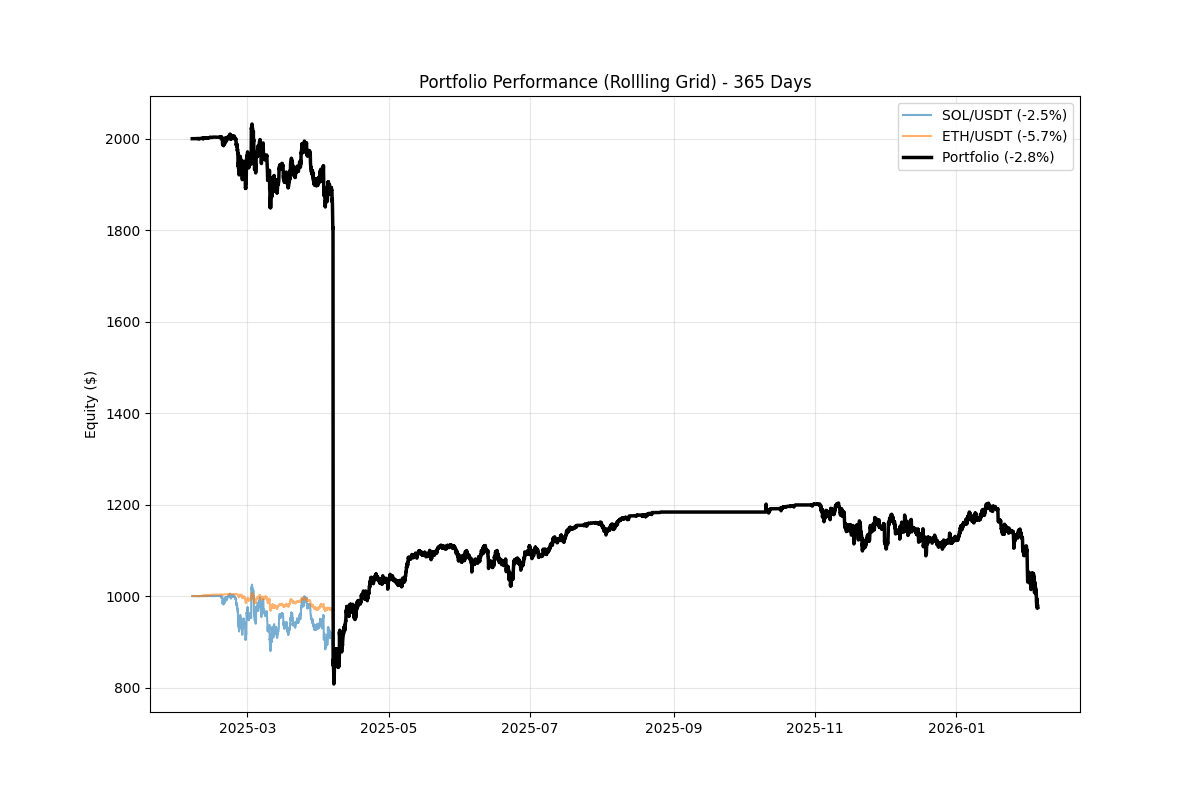
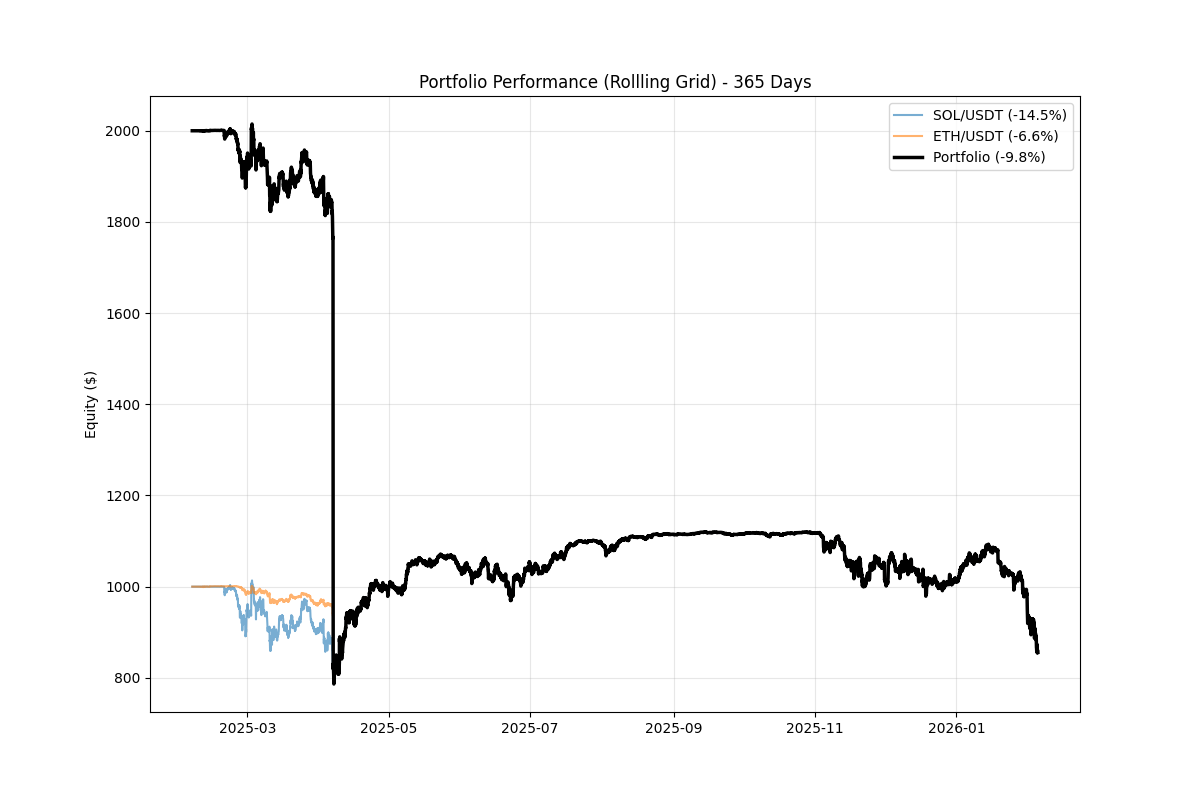
feat: Add trend filter to backtesting and update codebase review to reflect resolved issues and new findings.

diff --git a/backtest/simulator.py b/backtest/simulator.py
@@ -58,7 +58,8 @@ class GridSimulator:
         initial_capital: float = 1000.0,
         stop_loss: Optional[float] = None,
         fees_percent: float = 0.1,  # 0.1% per trade (Binance default)
-        rolling: bool = False  # Enable rolling/infinity grids
+        rolling: bool = False,  # Enable rolling/infinity grids
+        trend_filter_period: Optional[int] = None  # SMA period for trend filter (e.g., 50)
     ):
         """
         Initialize grid simulator.
@@ -88,6 +89,10 @@ class GridSimulator:
         
         mode_str = "ROLLING" if rolling else "FIXED"
         logger.info(f"Grid ({mode_str}): {grid_levels} levels from {lower_limit} to {upper_limit}, step={self.grid_step:.4f}")
+        
+        self.trend_filter_period = trend_filter_period
+        if trend_filter_period:
+            logger.info(f"Trend filter enabled: SMA-{trend_filter_period}")
     
     def run(self, ohlcv_df: pd.DataFrame) -> BacktestResult:
         """
@@ -130,6 +135,11 @@ class GridSimulator:
         
         logger.info(f"Initialized {len(buy_levels)} buy levels, {len(sell_levels)} sell levels")
         
+        # Calculate trend filter (SMA)
+        sma = None
+        if self.trend_filter_period:
+            sma = ohlcv_df['close'].rolling(window=self.trend_filter_period).mean()
+        
         # Simulate price movement
         for timestamp, row in ohlcv_df.iterrows():
             high = row['high']
@@ -169,6 +179,13 @@ class GridSimulator:
             
             for phase in phases:
                 if phase == 'buy':
+                    # Trend Filter: Skip buying if price is below SMA (downtrend)
+                    if sma is not None:
+                        current_sma = sma.get(timestamp)
+                        if current_sma is not None and not pd.isna(current_sma):
+                            if close < current_sma:
+                                continue  # Skip buying in downtrend
+                    
                     # Check for buy fills (price went down through grid levels)
                     filled_buys = []
                     for level in list(buy_levels):

diff --git a/backtest/portfolio_runner.py b/backtest/portfolio_runner.py
@@ -48,7 +48,8 @@ def load_all_strategies() -> Dict[str, dict]:
 def run_portfolio_backtest(
     days: int,
     initial_capital_per_bot: float,
-    fees_percent: float = 0.1
+    fees_percent: float = 0.1,
+    trend_filter_period: int = None
 ):
     """Run backtest for all enabled strategies."""
     strategies = load_all_strategies()
@@ -80,7 +81,8 @@ def run_portfolio_backtest(
                 initial_capital=initial_capital_per_bot,
                 stop_loss=config.get('stop_loss'),
                 fees_percent=fees_percent,
-                rolling=config.get('rolling_grids', False)
+                rolling=config.get('rolling_grids', False),
+                trend_filter_period=trend_filter_period
             )
             
             # Run
@@ -185,7 +187,8 @@ if __name__ == '__main__':
     parser = argparse.ArgumentParser(description='Portfolio Backtester')
     parser.add_argument('--days', '-d', type=int, default=30, help='Days of history')
     parser.add_argument('--capital', '-c', type=float, default=1000.0, help='Capital per bot')
+    parser.add_argument('--trend-filter', '-t', type=int, default=None, help='SMA period for trend filter (e.g., 50)')
     
     args = parser.parse_args()
     
-    run_portfolio_backtest(args.days, args.capital)
+    run_portfolio_backtest(args.days, args.capital, trend_filter_period=args.trend_filter)

diff --git a/review_report_2026-02-05.md b/review_report_2026-02-05.md
@@ -1,93 +1,71 @@
-# Codebase Review Report (2026-02-05)
+# Codebase Review Report (Updated 2026-02-05)
 
-## Updates Read Before Writing This Report
-1. Reviewed recent history through `7f6e385` (`git log --oneline --decorate -n 12`).
-2. Reviewed current working-tree changes (`git status --short`, `git diff --name-only`).
-3. Reviewed the only local diff in `config/strategies.json` (SOL/ETH grid parameter updates).
-4. Re-ran test baseline: `venv/bin/python -m pytest -q` -> `40 passed in 2.46s`.
+## Scope
+1. Re-reviewed current `HEAD` after latest commits (`46a1f92` and predecessors).
+2. Focused on behavior changes in `workers/`, `manager/`, `shared/`, and `backtest/`.
+3. Validation run: `venv/bin/python -m pytest -q` -> `40 passed in 2.37s`.
 
-## Verification Summary
-1. Confirmed findings: 13
-2. Partially confirmed findings (refined framing): 5
-3. Retracted findings: 0
+## Findings (Current State)
+1. `High` Global STOP can be silently dropped after a transient publish failure.
+Evidence: `manager/orchestrator.py:107`, `manager/orchestrator.py:134`, `manager/orchestrator.py:137`
+Detail: `stop_broadcast_sent` is set after attempting STOP broadcast, but `broadcast_command` does not return success/failure to gate that flag. A single failed publish can suppress further STOP attempts while breach persists.
 
-## Confirmed Findings
-1. `Critical` Infinite blocking risk in command stream read.
-Evidence: `workers/grid_bot.py:490`, `shared/messaging.py:127`
-Detail: `xreadgroup(..., block=0)` is treated as non-blocking in comments, but `BLOCK 0` blocks indefinitely.
+2. `High` Worker unregistration path is mostly unreachable from worker shutdown paths.
+Evidence: `manager/orchestrator.py:42`, `workers/grid_bot.py:560`, `workers/grid_bot.py:549`
+Detail: manager only unregisters on terminal status updates, but worker STOP/STOP_LOSS paths do not publish terminal status to the manager status channel. This can leave stale `active_bots` and allocations.
 
-2. `High` Stale-data watchdog ineffective in live loop ordering.
-Evidence: `workers/grid_bot.py:457`, `workers/grid_bot.py:462`
-Detail: `last_price_update` is set immediately after fetch, then stale check runs, so age is near-zero on successful fetches.
+3. `High` Profit factor regression for break-even strategies (`0/0 -> inf`).
+Evidence: `backtest/metrics.py:69`, `backtest/metrics.py:70`, `backtest/metrics.py:71`
+Detail: when all sell-trade PnL values are zero, winners and losers are both empty and `profit_factor` becomes `inf`, which is mathematically misleading for break-even performance.
 
-3. `High` API key lock renewal does not verify owner.
-Evidence: `workers/grid_bot.py:133`
-Detail: lock TTL is extended without checking key value still matches this worker ID.
+4. `Medium` Cache validation can accept severely undersampled history.
+Evidence: `backtest/data_fetcher.py:84`, `backtest/data_fetcher.py:85`
+Detail: cache completeness is validated only by time span (`last - first`) and not by candle density/count, so sparse data can be accepted as full coverage.
 
-4. `High` Worker lifecycle leak can exhaust concurrency permanently.
-Evidence: `manager/risk_engine.py:17`
-Detail: active workers are added but never removed/expired.
+5. `Medium` Terminal worker states are not persisted to dashboard snapshot store.
+Evidence: `manager/orchestrator.py:42`, `manager/orchestrator.py:45`, `manager/orchestrator.py:64`
+Detail: terminal updates return early before writing `workers:data`, so dashboard may keep showing old `RUNNING/PAUSED` state until stale timeout.
 
-5. `High` Backtest same-candle fill ordering can bias results.
-Evidence: `backtest/simulator.py:165`, `backtest/simulator.py:205`
-Detail: buy fills are processed before sell fills in the same candle, allowing optimistic intrabar assumptions.
+6. `Medium` API key lock-loss detection is not fail-safe.
+Evidence: `workers/grid_bot.py:144`, `workers/grid_bot.py:145`
+Detail: on lock ownership loss, renewal stops but bot continues running with same key. This can allow concurrent key usage if another worker acquires the lock.
 
-6. `Medium` DB connection leak risk on error paths.
-Evidence: `shared/database.py:50`, `shared/database.py:72`
-Detail: connections are closed on success paths, but not guaranteed in exception paths.
+7. `Low` Test name drift in rate limiter suite.
+Evidence: `tests/test_rate_limiter.py:65`
+Detail: function name still says `fail_open`, but behavior and assertion are now fail-closed.
 
-7. `Medium` Rate limiter fails open on Redis errors.
-Evidence: `shared/rate_limiter.py:81`
-Detail: exceptions in limiter return allow (`True`), increasing external API limit risk during outages.
+## Coverage Gaps
+1. No test for STOP retry semantics when publish fails under sustained global-risk breach.
+Evidence: `manager/orchestrator.py:107`, `tests/test_risk_integration.py:57`
 
-8. `Medium` Repeated STOP broadcasts on persistent risk breach.
-Evidence: `manager/orchestrator.py:97`
-Detail: STOP command is sent every loop iteration without debounce/latch.
+2. No test that worker terminal statuses are published and trigger unregistration end-to-end.
+Evidence: `manager/orchestrator.py:42`, `workers/grid_bot.py:560`, `tests/test_risk_integration.py:62`
 
-9. `Medium` Dashboard may trust conflicting `worker_id` in payload.
-Evidence: `dashboard/state.py:53`
-Detail: payload `worker_id` can override canonical Redis hash key ID.
+3. No unit tests for backtest edge cases introduced by metric/cache updates.
+Evidence: `backtest/metrics.py:69`, `backtest/data_fetcher.py:84`
 
-10. `Medium` Backtest cache sufficiency assumes hourly candles.
-Evidence: `backtest/data_fetcher.py:82`
-Detail: `days * 24` threshold ignores configured timeframe.
+4. No deterministic tests for intra-candle phase ordering behavior in simulator.
+Evidence: `backtest/simulator.py:165`
 
-11. `Medium` Sharpe annualization hardcoded to hourly frequency.
-Evidence: `backtest/metrics.py:92`
-Detail: fixed `8760` periods per year misstates Sharpe for non-hourly data.
+## Resolved Since Prior Report
+1. Stream command read now uses bounded blocking instead of indefinite block.
+Evidence: `workers/grid_bot.py:503`
 
-12. `Medium` Profit factor handling is incorrect when no losing trades exist.
-Evidence: `backtest/metrics.py:70`
-Detail: forcing `gross_loss = 1.0` yields finite PF instead of explicit no-loss behavior.
+2. Lock renewal now verifies ownership before extending TTL.
+Evidence: `workers/grid_bot.py:136`, `workers/grid_bot.py:142`
 
-13. `Medium` CLI override logic ignores valid zero-like values.
-Evidence: `backtest/runner.py:148`
-Detail: `arg or default` pattern overrides explicit `0` / `0.0`.
+3. Database write paths now close connections in `finally`.
+Evidence: `shared/database.py:51`, `shared/database.py:75`
 
-## Partially Confirmed / Refined Findings
-1. Silent publish-success risk is confirmed for manager path only.
-Evidence: `manager/orchestrator.py:119`, `shared/messaging.py:14`, `dashboard/state.py:17`
-Refinement: dashboard path already checks subscriber count semantics separately.
+4. Rate limiter now fails closed on Redis errors.
+Evidence: `shared/rate_limiter.py:83`
 
-2. Precision/float risk is real but impact is exchange-adapter dependent.
-Evidence: `workers/grid_bot.py:330`, `workers/order_manager.py:29`
-Refinement: no explicit precision normalization is visible in this path; runtime effect may vary by exchange/CCXT behavior.
-
-3. Infinite retry behavior applies to runtime loop failures, not all startup failures.
-Evidence: `manager/orchestrator.py:87`
-Refinement: `run()` loop catches/retries runtime exceptions; constructor/load-time failures are outside this loop.
-
-4. Test-gap claim needed narrowing.
-Evidence: `tests/test_dashboard_state.py:24`, `tests/test_risk_integration.py:61`
-Refinement: there are existing failure-path tests, but targeted gaps remain for manager publish semantics, worker cleanup lifecycle, STOP debounce, and `worker_id` mismatch handling.
-
-5. README stop-loss statement is outdated at system level.
-Evidence: `readme.md:44`, `workers/grid_bot.py:515`, `tests/test_stop_loss.py:45`
-Refinement: stop-loss exists in `GridBot` flow; README statement is stale.
+5. Dashboard worker identity now uses Redis hash key as source of truth.
+Evidence: `dashboard/state.py:54`, `dashboard/state.py:58`
 
 ## Priority Fix Order
-1. Fix stream blocking semantics in command reads.
-2. Correct lock renewal to use ownership-checked renew logic.
-3. Add worker expiry/unregister path for `active_bots`.
-4. Correct backtest candle fill assumptions and metrics time-scaling.
-5. Add targeted regression tests for the confirmed high-impact cases.
+1. Gate `stop_broadcast_sent` on successful STOP publish, and retry while breach persists.
+2. Publish terminal status from workers on STOP/STOP_LOSS/ERROR so manager can unregister reliably.
+3. Fix `profit_factor` semantics for break-even/no-loss edge cases.
+4. Strengthen cache validation with expected-candle-density checks.
+5. Add regression tests for the high-impact runtime and backtest edge cases above.
